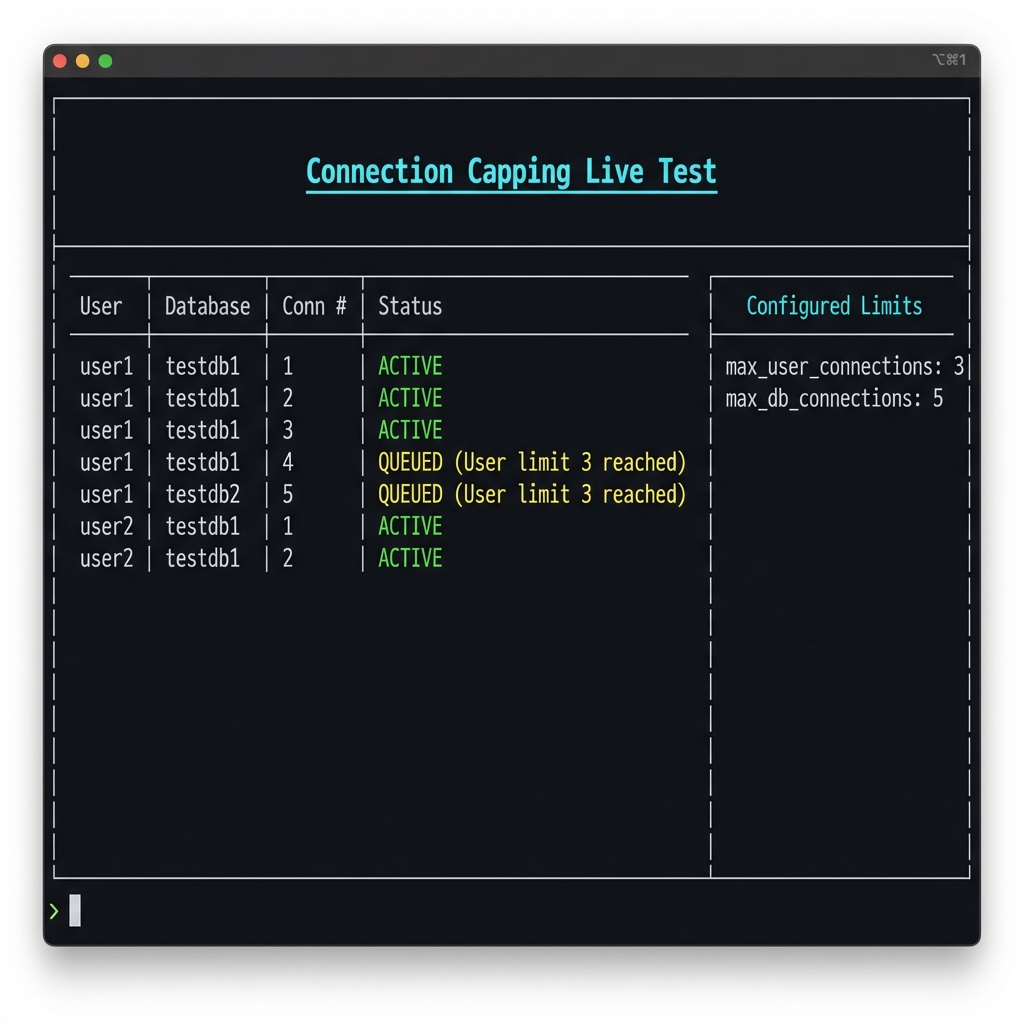
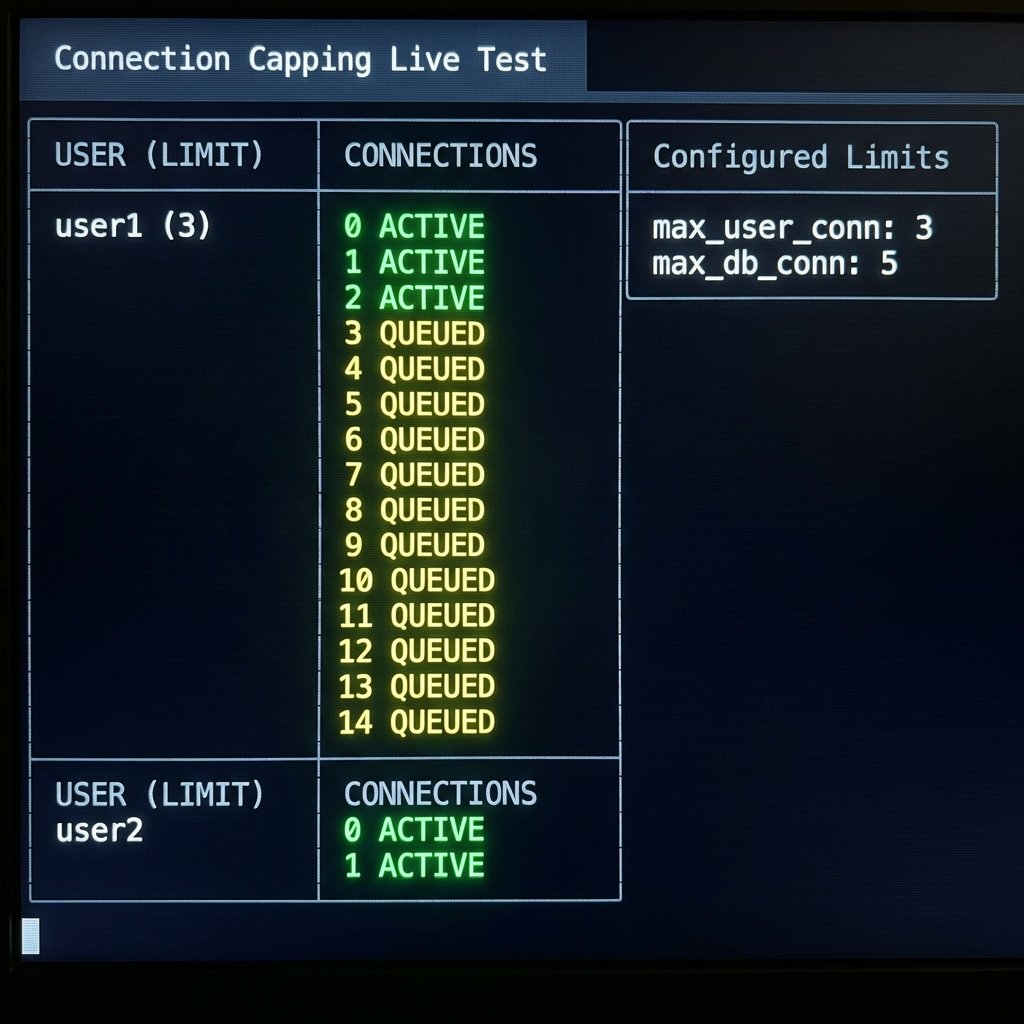
update in capping example

diff --git a/pgbouncer/capping_user_connections/life_test.py b/pgbouncer/capping_user_connections/life_test.py
@@ -18,8 +18,8 @@ DB_NAME = "pgbouncer"
 
 # Test scenarios
 TEST_USERS = [
-    {"user": "user1", "pass": "user1", "db": "testdb1", "limit": 3, "count": 5},  # User cap test
-    {"user": "user2", "pass": "user2", "db": "testdb1", "limit": 0, "count": 3},  # DB cap test contribution
+    {"user": "user1", "pass": "user1", "db": "testdb1", "limit": 3, "count": 15},  # User cap test
+    {"user": "user2", "pass": "user2", "db": "testdb1", "limit": 0, "count": 15},  # DB cap test contribution
 ]
 
 console = Console()
@@ -55,23 +55,31 @@ def worker_thread(user_idx, user_config, conn_idx):
             user=user,
             password=password,
             dbname=dbname,
-            connect_timeout=3
+            connect_timeout=5
         )
         conn.autocommit = True
-        connection_statuses[key] = "ACTIVE"
         
-        # Keep connection open
-        while True:
-            try:
-                with conn.cursor() as cur:
+        # Connection established but might be queued by PgBouncer
+        connection_statuses[key] = "QUEUED"
+        
+        # Try to run a query to confirm we are truly active
+        try:
+            with conn.cursor() as cur:
+                # Set a query timeout to detect if we are strictly queued for too long?
+                # Actually, blocking here IS the queued state.
+                cur.execute("SELECT 1")
+                connection_statuses[key] = "ACTIVE"
+                
+                # Keep connection open and active
+                while True:
                     cur.execute("SELECT 1")
                     time.sleep(random.uniform(0.5, 2.0))
-            except Exception:
-                break
-                
-        conn.close()
+        except Exception as e:
+            connection_statuses[key] = "ERROR"
+            conn.close()
+            
     except Exception as e:
-        connection_statuses[key] = "REJECTED/QUEUED"
+        connection_statuses[key] = "REJECTED"
 
 def start_load():
     for u_idx, u_conf in enumerate(TEST_USERS):
